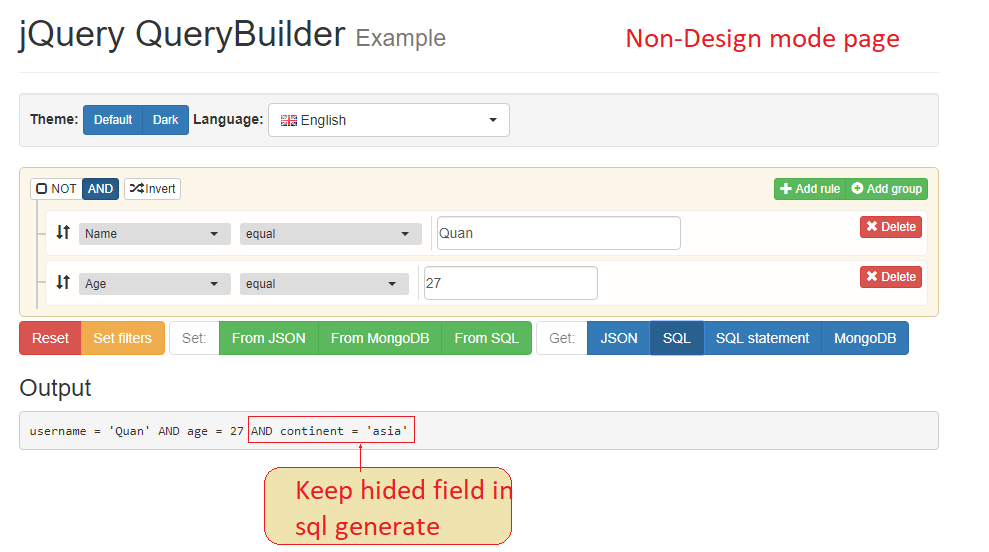
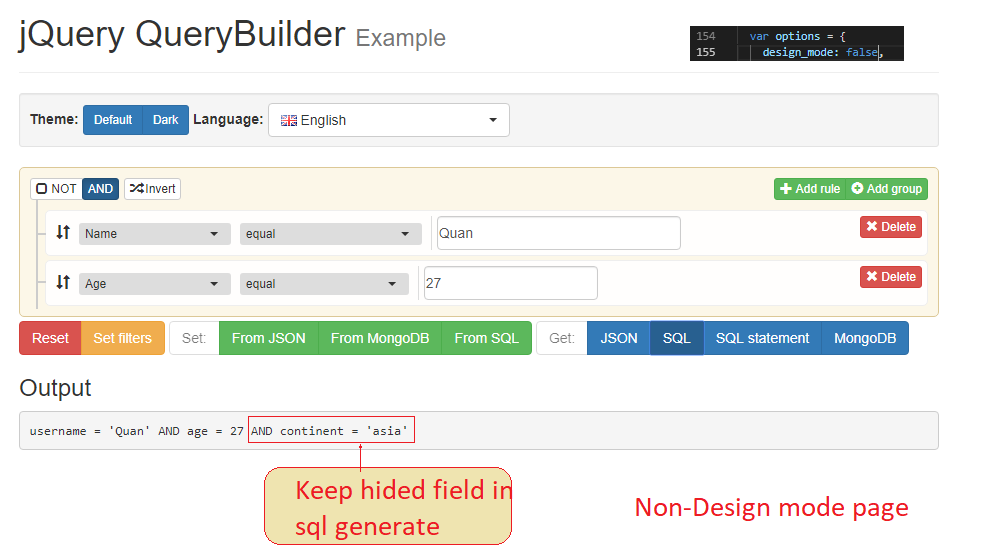
update README.md

Changed region(s): [[0.637, 0.0308, 0.9403, 0.1232], [0.637, 0.8931, 0.91, 0.9547]]

diff --git a/README.md b/README.md
@@ -33,7 +33,7 @@ Install Node dependencies `npm install` then run `grunt` in the root directory t
 You can add feature show hide rule without missing rule in sql generate :
 ```bash
 # set "design_mode": true to declare design mode for QueryBuilder (we use it in design condition page)
-# set "design_mode": false to declare design mode for QueryBuilder (we use it in run report page)
+# set "design_mode": false to declare design mode for QueryBuilder (we use it in non design page)
 	var options = {
     design_mode: true,
 	... }
@@ -42,9 +42,10 @@ You can add feature show hide rule without missing rule in sql generate :
 ```
 
 ![](images/designmode.png)
+#Design page
 
 ![](images/nondesignmode.png)
-
+#Non-Design page
 #### Other commands
 
  * `grunt build` to build a standalone builder.
